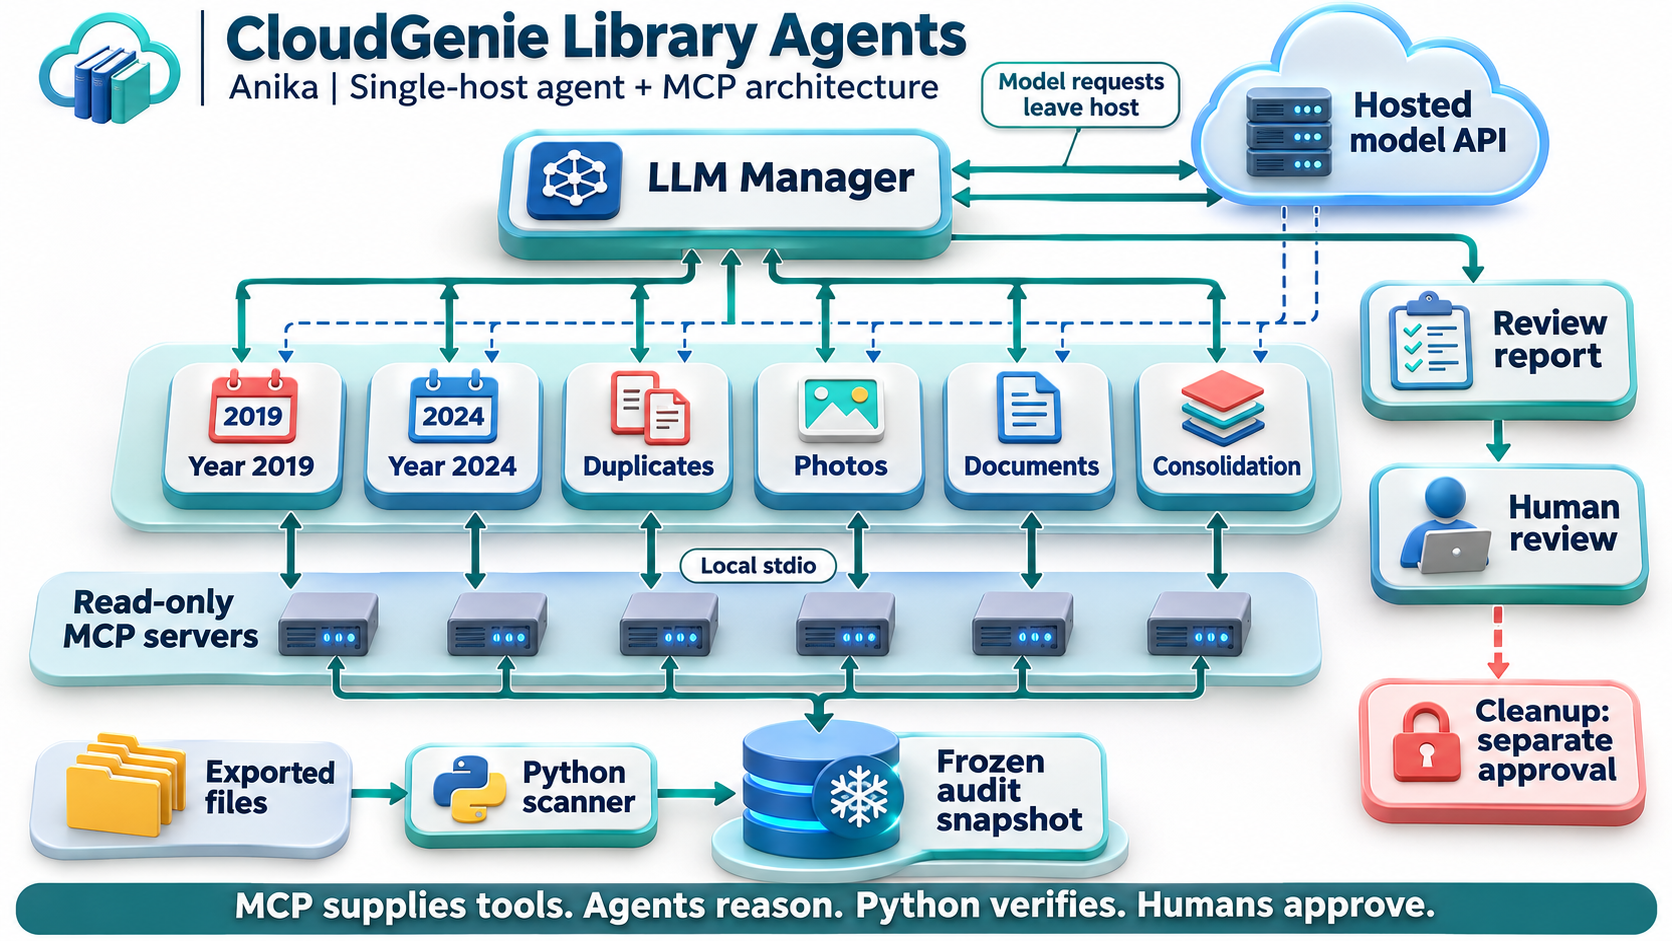
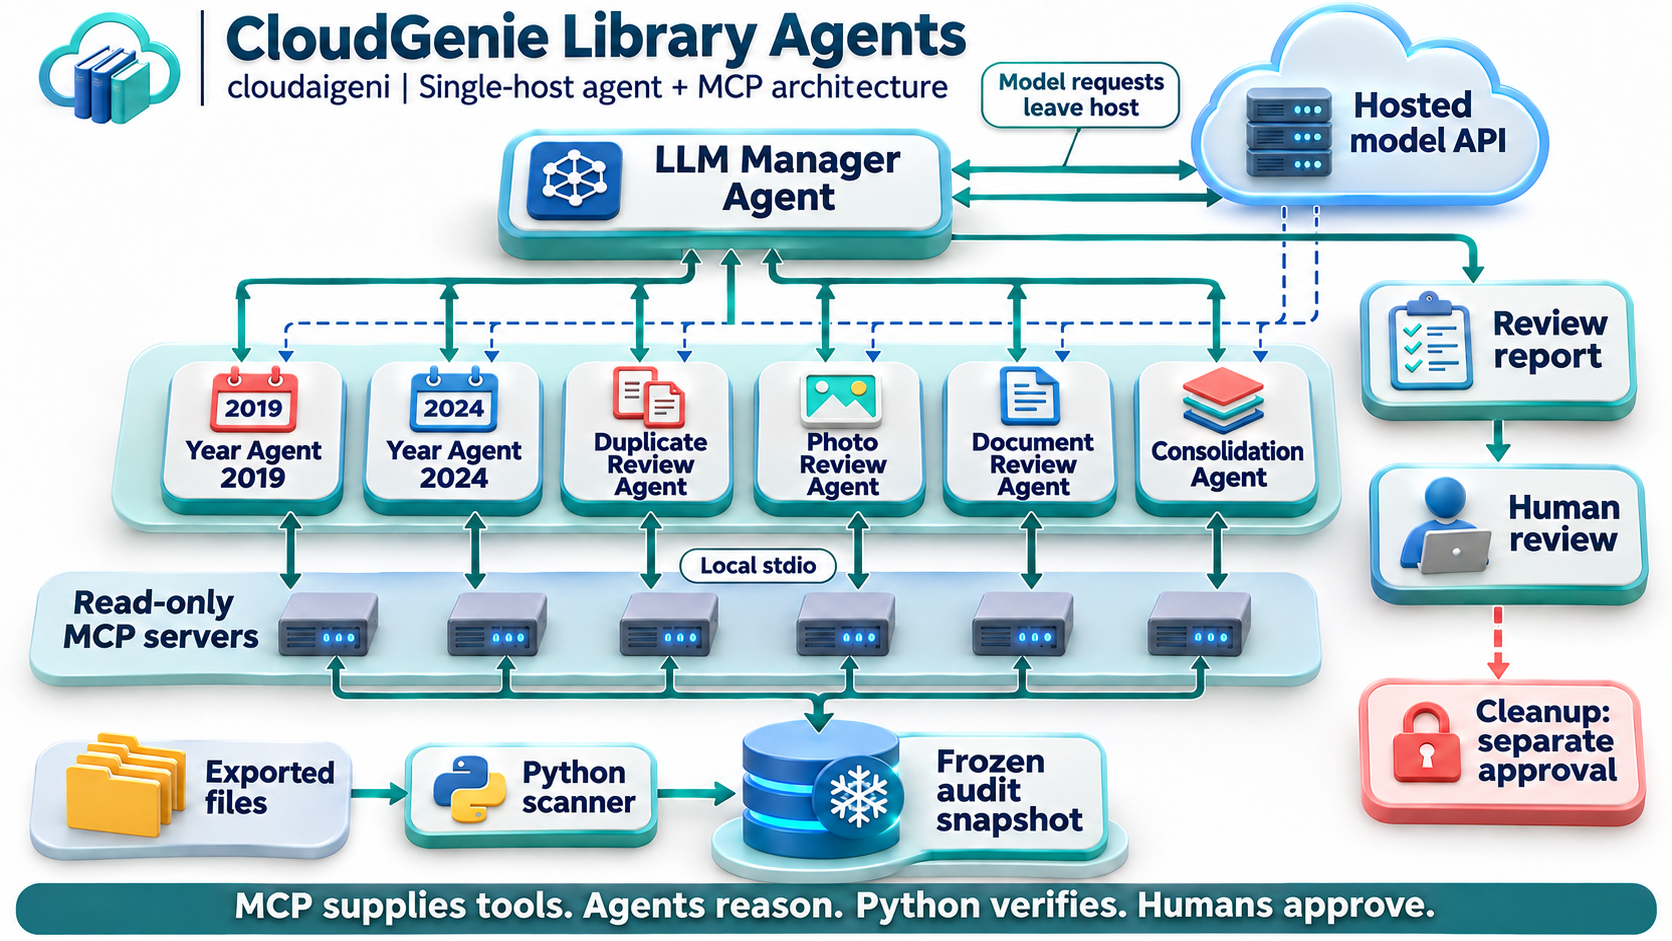
Use cloudaigeni deployment naming and explicit agent labels

diff --git a/docs/designs/README.md b/docs/designs/README.md
@@ -13,7 +13,7 @@ agent architecture guide.
 1. Python inventories selected exports and computes evidence before LLM review.
 2. The manager delegates to year agents and global specialist agents.
 3. Each specialist uses a local stdio MCP connection to a read-only snapshot.
-4. Hosted model requests leave Anika; MCP itself is not an LLM.
+4. Hosted model requests leave the cloudaigeni host; MCP itself is not an LLM.
 5. The manager produces a review report. Cleanup is a separate human-approved CLI
    workflow, never an available agent tool.
 
@@ -42,7 +42,7 @@ live LLM run has succeeded.
 Create a polished 3D isometric educational architecture infographic, landscape,
 readable large labels, white background, teal/blue/coral accents, physically
 rendered miniature computing modules, no robots. Title: 'CloudGenie Library
-Agents'. Subtitle: 'Anika | Single-host agent + MCP architecture'. Clear
+Agents'. Subtitle: 'cloudaigeni | Single-host agent + MCP architecture'. Clear
 top-to-bottom hierarchy with separate, spacious bands and directional arrows.
 Top module 'LLM Manager'. Second band SIX separate modules labeled 'Year 2019',
 'Year 2024', 'Duplicates', 'Photos', 'Documents', 'Consolidation'. Manager delegates
@@ -68,7 +68,7 @@ Create a high quality 3D isometric educational infographic for CloudGenie Librar
 Agents. Landscape white background, raised physical computing modules and readable
 dark typography, teal blue coral accent palette matching a polished enterprise
 architecture presentation. Title 'Inside an MCP Tool Call'. Subtitle 'Example: a
-year-scoped inventory review on Anika'. Five numbered stations with clearly routed
+year-scoped inventory review on cloudaigeni'. Five numbered stations with clearly routed
 arrows in a spacious left-to-right sequence across the center: '1. Manager
 delegates', '2. Year agent reasons', '3. MCP tool request', '4. Server checks scope',
 '5. Evidence returns'. Station 1 command console with delegation card 'Review
@@ -85,3 +85,13 @@ tool.' Tiny footer 'Illustrative workflow, not a successful live-run trace.' Do
 not suggest tool server calls the LLM or has intelligence of its own. No secrets,
 API keys, original photo content or fake metrics. All wording clean and legible
 with generous whitespace, no overlapping arrows or words.
+
+## Naming and Agent Label Revision
+
+Both PNGs were edited with built-in image generation, preserving the original
+layout and read-only boundaries. Edit prompts: replace the deployment name with
+lowercase `cloudaigeni` in both subtitles; in the overview explicitly label the
+manager `LLM Manager Agent` and the six specialists `Year Agent 2019`,
+`Year Agent 2024`, `Duplicate Review Agent`, `Photo Review Agent`,
+`Document Review Agent`, and `Consolidation Agent`. Keep labels legible within
+each module. Preserve all remaining content.

diff --git a/docs/AGENT-ARCHITECTURE.md b/docs/AGENT-ARCHITECTURE.md
@@ -1,10 +1,10 @@
-# Agent Architecture: Anika Learning Deployment
+# Agent Architecture: cloudaigeni Learning Deployment
 
 ![3D architecture overview](designs/agent-mcp-architecture-3d.png)
 
 Illustrative single-host architecture. Connectors represent requests and returned
 evidence, not permission to write to the snapshot. All LLM agents use the hosted
-model API; MCP processes run locally on Anika. The existing Mermaid diagram below
+model API; MCP processes run locally in cloudaigeni. The existing Mermaid diagram below
 is the editable logical reference.
 
 This extends the v1 deterministic engine; it does not rename Python workers into
@@ -16,7 +16,7 @@ not distributed across machines. Concurrency is decided by the SDK/model.
 
 ```mermaid
 flowchart TD
-    U[Human operator on Anika] --> S[Deterministic scan: explicitly selected exports]
+    U[Human operator in cloudaigeni] --> S[Deterministic scan: explicitly selected exports]
     S --> E[Catalog, hashes, extracted text, duplicate and topic evidence]
     E --> F[Private frozen review snapshot]
     U --> C[Explicit model disclosure consent]

diff --git a/docs/CLOUDAIGENI-DEPLOYMENT.md b/docs/CLOUDAIGENI-DEPLOYMENT.md
@@ -1,8 +1,9 @@
-# Anika: Ubuntu Deployment and Learning Guide
+# cloudaigeni: Ubuntu Deployment and Learning Guide
 
 ## Deployment layout
 
-- Host: Anika, local WSL2 Ubuntu; user: techforge.
+- Deployment name: cloudaigeni, local WSL2 Ubuntu; user: techforge.
+- This is a deployment label; the operating-system hostname is unchanged.
 - Application: `/home/techforge/CloudGenie-Library-Agents`.
 - Python environment: `.venv` inside the application directory.
 - Generated data: `demo-data/` and `runs/`, excluded from Git.
@@ -14,7 +15,7 @@
 
 ## Install or reproduce
 
-Use Python 3.11+ (Anika has Python 3.12). These commands create a fresh checkout;
+Use Python 3.11+ (the deployed environment has Python 3.12). These commands create a fresh checkout;
 skip cloning and venv creation on the already deployed host.
 
 ```bash

diff --git a/README.md b/README.md
@@ -10,7 +10,7 @@ See the [3D design gallery and tool-call walkthrough](docs/designs/README.md).
 
 The optional `agents` extra adds an OpenAI Agents SDK manager, independent year
 subagents, global duplicate/document/consolidation reviewers, and a real read-only
-MCP server. See [Anika deployment and learning guide](docs/ANIKA-DEPLOYMENT.md)
+MCP server. See [cloudaigeni deployment and learning guide](docs/CLOUDAIGENI-DEPLOYMENT.md)
 and [agent architecture](docs/AGENT-ARCHITECTURE.md). Python 3.11+ is required for
 this extra. Model access and explicit data-disclosure consent are required for
 LLM review; `--probe` tests MCP without calling a model.
